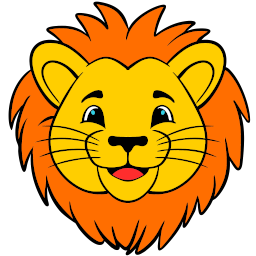
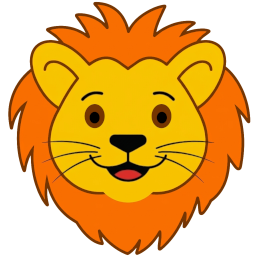
low number warning

diff --git a/xhtml-to-json.py b/xhtml-to-json.py
@@ -4,6 +4,10 @@ import re
 import os
 from bs4 import BeautifulSoup
 
+MINIMUM_ENTRY_WARNING = 7000
+COLOR_RED = "\033[91m"
+COLOR_RESET = "\033[0m"
+
 def get_abbreviation_mapping(lists_xml_path):
     """
     Parses lists.xml to create a mapping of abbreviations to their reverse names.
@@ -335,6 +339,16 @@ def xhtml_to_json(xhtml_file, json_file, lists_xml_file=None):
         result.append([v_text, str(v_soup).replace('"', "'")])
     
     print("\nFinish processing.")
+
+# Check entry count before writing to file
+    if len(result) < MINIMUM_ENTRY_WARNING:
+        print(f"\n{COLOR_RED}[WARNING] Only {len(result)} entries found.{COLOR_RESET}")
+        print(f"This is below the MINIMUM_ENTRY_WARNING threshold of {MINIMUM_ENTRY_WARNING}.")
+        confirm = input("The original export might be incorrect. Do you want to proceed? (y/n): ").lower()
+        if confirm != 'y':
+            print("Operation aborted by user.")
+            sys.exit(0)
+
 
     # Write to JSON file
     with open(json_file, 'w', encoding='utf-8') as f:

diff --git a/read-me.md b/read-me.md
@@ -1,10 +1,3 @@
-Chat that created these scripts:
-
-https://chat.z.ai/s/353af1bf-efa0-4215-b90f-06fc0124fc8a
-
-https://chat.z.ai/s/6f050a04-d55e-422e-96fa-879d52499a92
-
-
 
 1. Export "Configured Dictionary Web Page (XHTML)"
 
@@ -15,5 +8,3 @@ https://chat.z.ai/s/6f050a04-d55e-422e-96fa-879d52499a92
 4. python json-to-stardict.py <filename.json> <Dictionary name>
 
 # problems
-- Seems that second homograph is not included
-- examples are not in a list